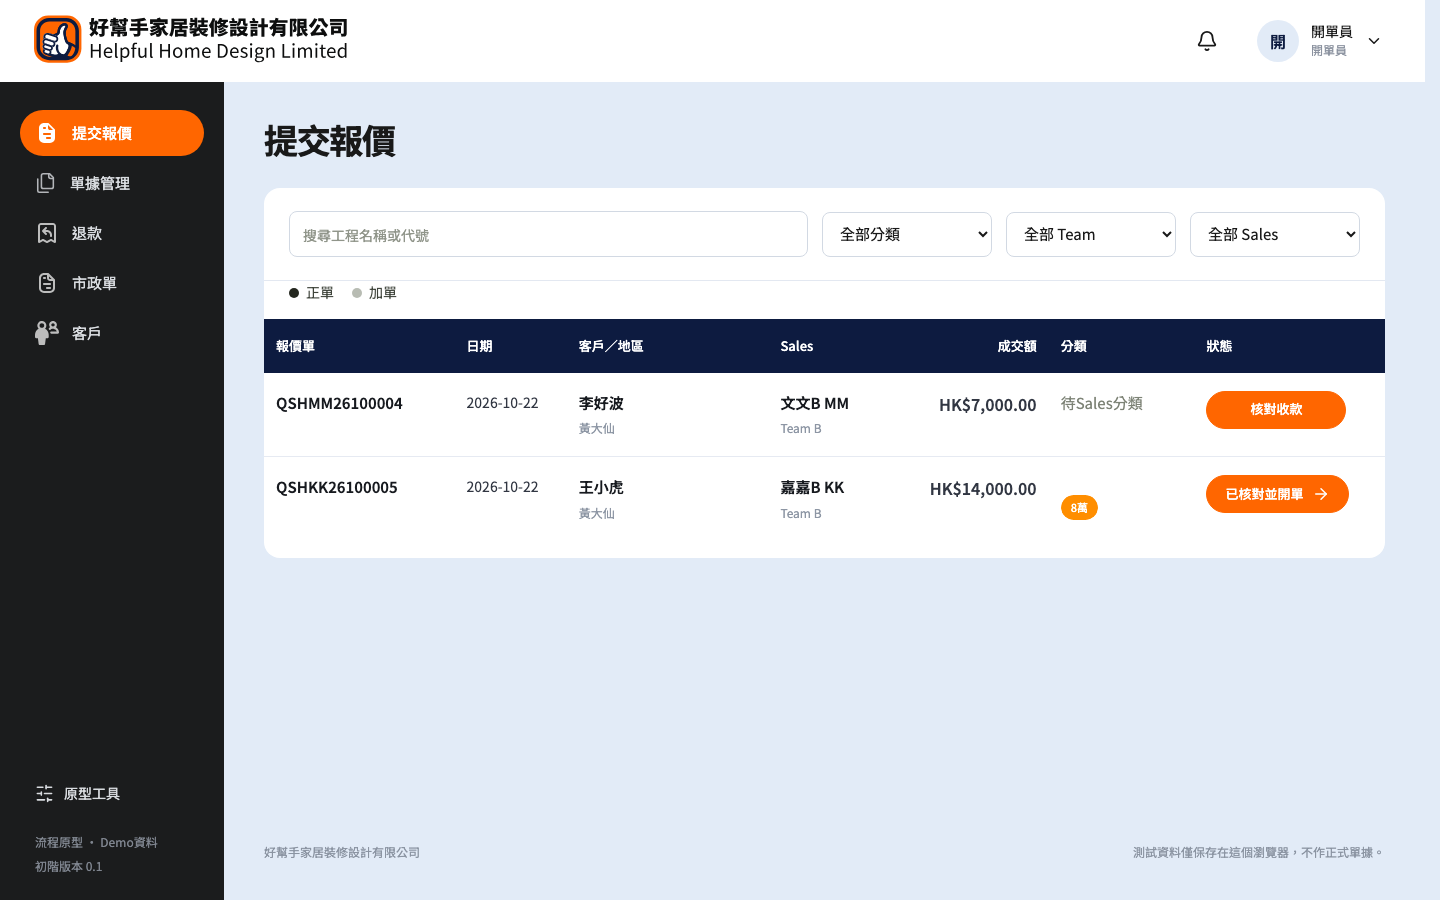
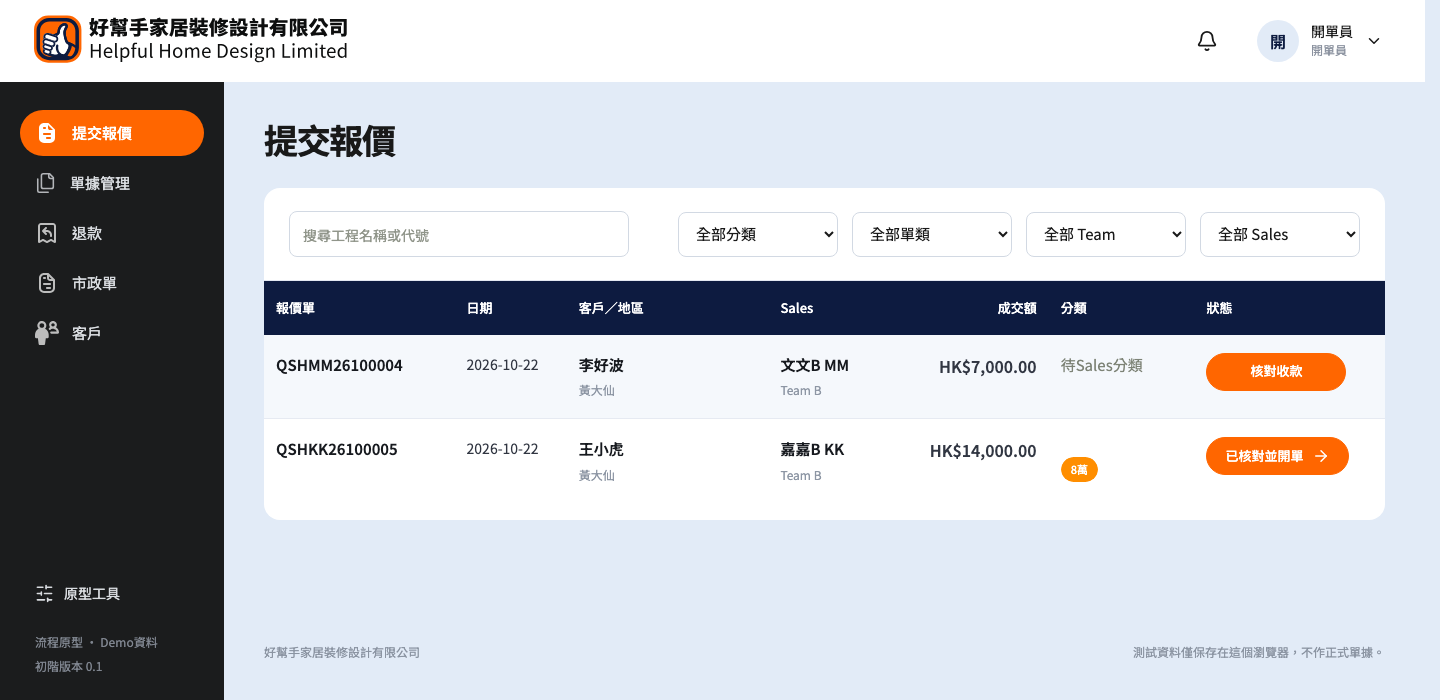
feat(submissions): add order type filter and align toolbar

diff --git a/src/pages/Office.tsx b/src/pages/Office.tsx
@@ -529,6 +529,9 @@ export function Submissions() {
   >("all");
   const [teamFilter, setTeamFilter] = useState<"all" | "A" | "B">("all");
   const [salesFilter, setSalesFilter] = useState("all");
+  const [orderFilter, setOrderFilter] = useState<
+    "all" | "new" | "additional"
+  >("all");
   const [activePayment, setActivePayment] = useState<Payment | null>(null);
   const parentSummaryOf = (quote: Quote) =>
     quote.parentQuoteId
@@ -546,6 +549,10 @@ export function Submissions() {
         return (
           (categoryFilter === "all" ||
             categories.includes(categoryFilter)) &&
+          (orderFilter === "all" ||
+            (orderFilter === "additional"
+              ? Boolean(quote.isAdditionalOrder)
+              : !quote.isAdditionalOrder)) &&
           (teamFilter === "all" || quote.team === teamFilter) &&
           (salesFilter === "all" || quote.ownerId === salesFilter) &&
           `${quote.number} ${currentVersion(quote).customer.name} ${currentVersion(quote).customer.address} ${parentSummaryOf(quote)?.number ?? ""}`.includes(
@@ -561,7 +568,7 @@ export function Submissions() {
   );
   const pager = usePagination(
     sortedSources,
-    `${search}|${categoryFilter}|${teamFilter}|${salesFilter}`,
+    `${search}|${categoryFilter}|${orderFilter}|${teamFilter}|${salesFilter}`,
   );
   const payments = engine.listPayments(actor);
   const salesActors = engine
@@ -599,6 +606,19 @@ export function Submissions() {
               )}
             </select>
             <select
+              aria-label="單類"
+              value={orderFilter}
+              onChange={(event) =>
+                setOrderFilter(
+                  event.target.value as "all" | "new" | "additional",
+                )
+              }
+            >
+              <option value="all">全部單類</option>
+              <option value="new">新訂單</option>
+              <option value="additional">後加單</option>
+            </select>
+            <select
               aria-label="來源Team"
               value={teamFilter}
               onChange={(e) =>
@@ -622,10 +642,6 @@ export function Submissions() {
               ))}
             </select>
           </div>
-        </div>
-        <div className="submission-legend">
-          <span className="normal-dot">正單</span>
-          <span className="additional-dot">加單</span>
         </div>
         {sources.length === 0 ? (
           <Empty

diff --git a/src/styles.css b/src/styles.css
@@ -11132,8 +11132,8 @@ textarea::placeholder {
   padding: 23px 25px;
 }
 .submission-toolbar .search {
-  flex: 1 1 340px;
-  max-width: 520px;
+  flex: 1 1 300px;
+  max-width: 340px;
   min-width: 240px;
   width: auto;
 }
@@ -11142,8 +11142,8 @@ textarea::placeholder {
   gap: 14px;
 }
 .submission-filters select {
-  flex: 0 0 170px;
-  width: 170px;
+  flex: 0 0 160px;
+  width: 160px;
   min-width: 0;
 }
 .submission-table {

diff --git a/tests/e2e/submissions-additional-order.spec.ts b/tests/e2e/submissions-additional-order.spec.ts
@@ -18,6 +18,7 @@ test("開單員提交報價列表顯示加單及原單號", async ({ page }) => 
 
   await switchRole(page, "開單員");
   await page.goto("/submissions");
+  await page.getByLabel("單類").selectOption("additional");
   const row = page
     .locator(".submission-table tbody tr")
     .filter({ hasText: "李好波" });
